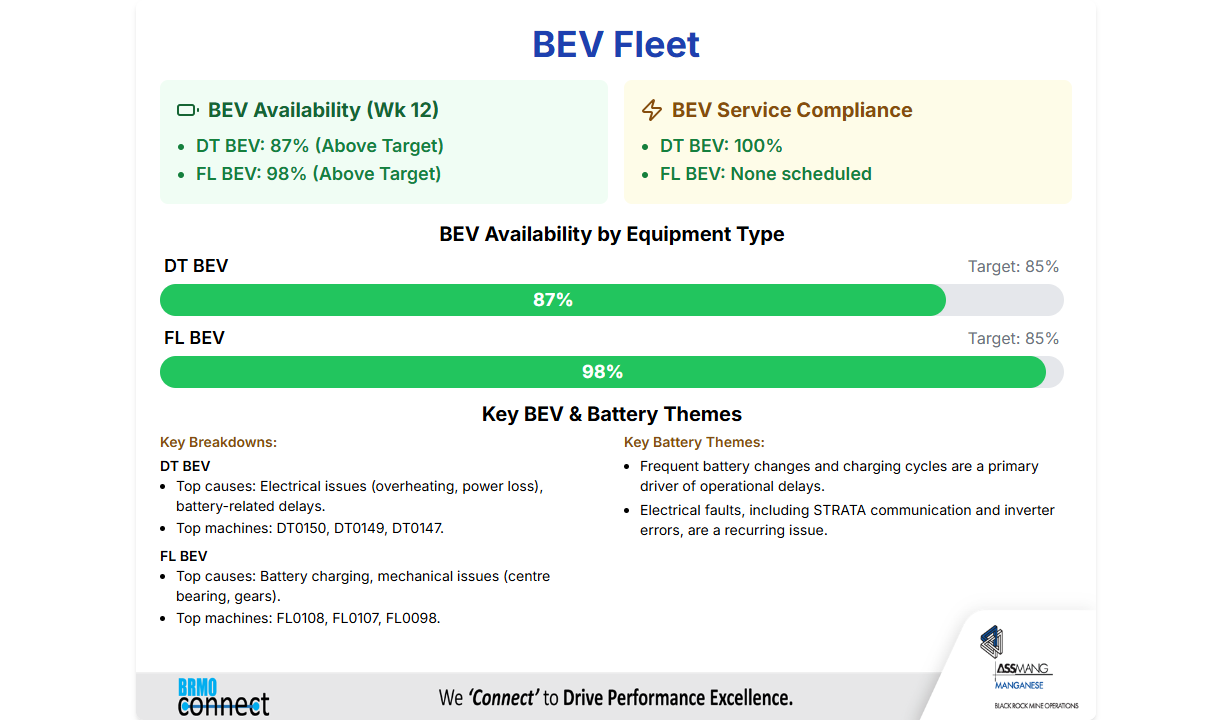
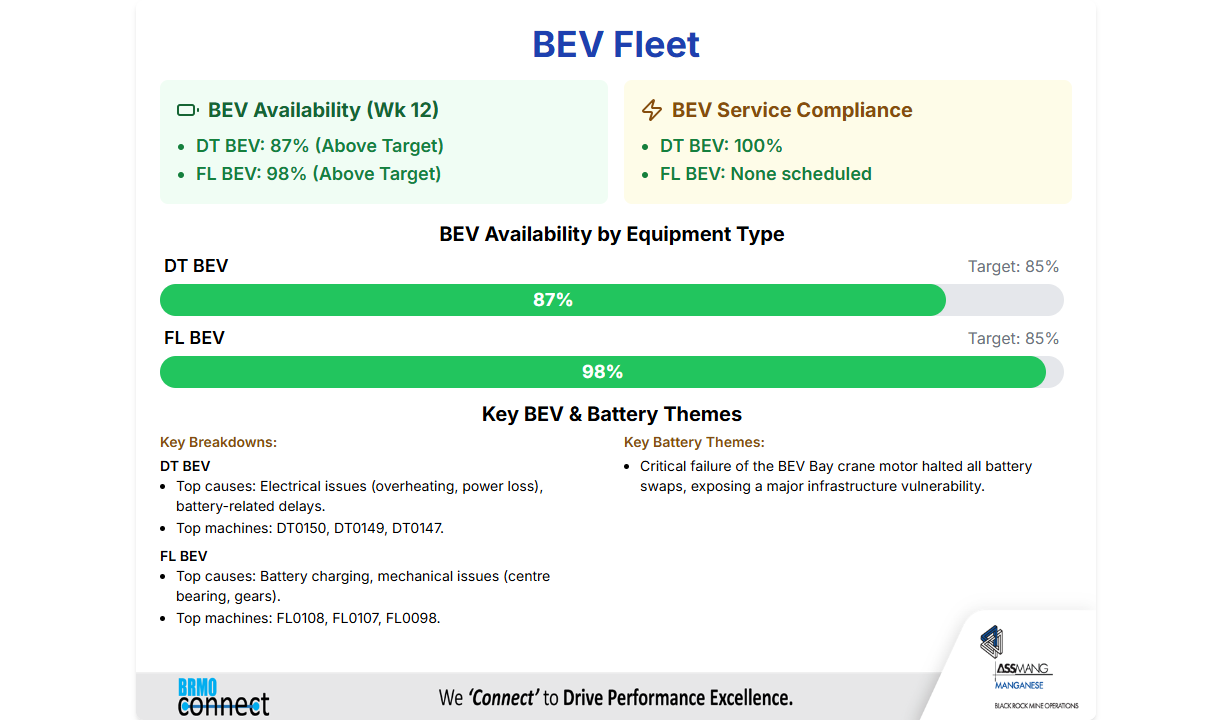
feat: Update BEV battery themes for Week 12

Changed region(s): [[0.5244, 0.6417, 0.8636, 0.7639]]

diff --git a/weekly-report-generator/src/data/reportData.ts b/weekly-report-generator/src/data/reportData.ts
@@ -232,8 +232,7 @@ export const reportData: ReportData = {
       }
     ],
     batteryThemes: [
-      'Frequent battery changes and charging cycles are a primary driver of operational delays.',
-      'Electrical faults, including STRATA communication and inverter errors, are a recurring issue.',
+      'Critical failure of the BEV Bay crane motor halted all battery swaps, exposing a major infrastructure vulnerability.',
     ],
   },
 };

diff --git a/weekly-report-generator/public/images/Week12/BEV Performance Report - Week Sept 15-20, 2025.md b/weekly-report-generator/public/images/Week12/BEV Performance Report - Week Sept 15-20, 2025.md
@@ -1,0 +1,105 @@
+# BEV Performance Report: Week of September 15-20, 2025
+*For Weekly Report Supplementation*
+
+## Executive Summary
+Critical BEV infrastructure failure mid-week severely impacted operations, followed by successful recovery. Multiple battery charging issues identified across BEV dump truck fleet.
+
+---
+
+## 🔴 CRITICAL BATTERY-RELATED INCIDENTS
+
+### Major Infrastructure Failure (Sept 18-19)
+- **BEV Bay Crane Motor Failed**: Complete failure of battery replacement infrastructure
+- **Operational Impact**: Teams unable to replace batteries on machines during critical period
+- **Recovery**: SA Crane contractors on-site Sept 19, motor replacement completed Sept 20
+
+### Battery Charging Issues - BEV Dump Trucks
+| **Date** | **Unit** | **Issue** | **Status** |
+|----------|----------|-----------|------------|
+| Sept 15 | DT0163 | Battery change | Ongoing |
+| Sept 19 | DT0149, DT0162, DT0163 | Battery charging | Multiple units affected |
+| Sept 20 | DT0147 | Battery charging | Continued issues |
+
+---
+
+## DAILY BEV PERFORMANCE BREAKDOWN
+
+### Sunday, September 15 (Weekend Operations)
+- **BEV Status**: 1 unit affected (DT0163 - Battery change)
+- **Overall DT Availability**: 88% (11/14 units available)
+- **Production**: Strong weekend performance (2,393t ROM, 1,996t Product)
+
+### Monday, September 16
+- **BEV Status**: No specific battery issues reported
+- **Overall DT Availability**: 72% (10/14 units) - Below threshold
+- **Production Impact**: Severe shortfall (ROM -64.6%, Product -100%)
+
+### Tuesday, September 17
+- **BEV Status**: No specific battery issues reported
+- **Overall DT Availability**: 77% (10/14 units) - Below threshold
+- **Production**: Partial recovery (ROM -35.9%, Decline +30.5%)
+
+### Wednesday, September 18
+- **BEV Status**: No specific battery issues reported
+- **Overall DT Availability**: 86% (11/14 units) - Improved
+- **Safety**: Property damage incident with DT0161 (not BEV-related)
+
+### Thursday, September 19 🔴
+- **BEV Crisis**: **BEV Bay crane motor failed**
+- **Battery Issues**: 3 BEV units affected (DT0149, DT0162, DT0163)
+- **Overall DT Availability**: 90% (10/14 units) - Surprisingly high despite BEV issues
+- **Mitigation**: Team went down early to manually manage battery logistics
+
+### Friday, September 20 ✅
+- **BEV Recovery**: Crane motor replacement completed
+- **Battery Issues**: 1 unit remaining (DT0147 - Battery charging)
+- **Overall DT Availability**: 84% (10/14 units)
+- **Production**: Strong recovery (Product +6.0% above target)
+
+---
+
+## KEY FINDINGS & PATTERNS
+
+### Battery System Vulnerabilities
+1. **Infrastructure Dependency**: Complete reliance on BEV Bay crane for battery operations
+2. **Cascading Failures**: Single crane failure impacted multiple BEV units simultaneously
+3. **Manual Workarounds**: Effective team response with early shift preparation and manual battery management
+
+### Recurring BEV Units
+- **DT0163**: Persistent battery issues (Sept 15 & 19)
+- **DT0149**: Recurring charging problems (August pattern continuing)
+- **DT0147**: New battery charging issue emergence
+
+### Operational Resilience
+- **Positive**: Quick contractor response and motor replacement
+- **Positive**: Proactive team battery management during crisis
+- **Gap**: No backup crane infrastructure for critical BEV operations
+
+---
+
+## RECOMMENDATIONS FOR WEEKLY REPORT
+
+### 🔴 Immediate Actions Required
+1. **Backup Infrastructure**: Install redundant crane system for BEV Bay operations
+2. **Preventive Maintenance**: Implement predictive maintenance on BEV Bay crane motor
+3. **Battery Inventory**: Review spare battery availability for extended outages
+
+### 📊 Performance Metrics for HO
+- **BEV Fleet Availability**: Impacted 3/7 units (43%) during crane failure
+- **Recovery Time**: 2 days from failure identification to full restoration
+- **Production Impact**: Minimal due to effective manual workarounds
+
+### ✅ Positive Outcomes
+- **Team Response**: Excellent proactive battery management during crisis
+- **Contractor Support**: Rapid SA Crane response and professional installation
+- **Operational Learning**: Enhanced understanding of BEV infrastructure vulnerabilities
+
+---
+
+## BEV Fleet Reference
+**Total BEV Equipment at Nchwaning 3:**
+- **7 BEV Dump Trucks**: DT0146, DT0147, DT0149, DT0150, DT0162, DT0163, DT0171 (Epiroc MT 42 B)
+- **6 BEV Front Loaders**: FL0098, FL0099, FL0107, FL0108, FL0112, FL0113 (Epiroc ST14 B)
+
+*Report compiled from daily production data Sept 15-20, 2025*
+*Generated: September 22, 2025*
